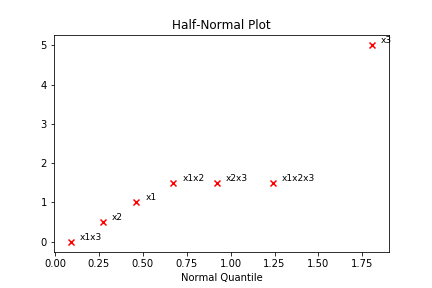
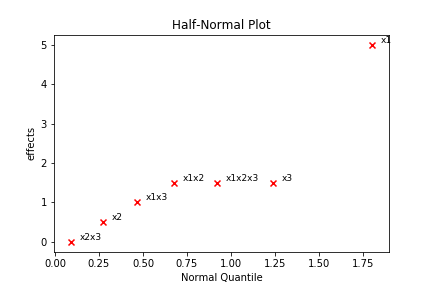
MinorC1

diff --git a/2k_DesignOfExp.py b/2k_DesignOfExp.py
@@ -20,7 +20,9 @@ import statistics
 import math
 
 
-
+print('Current working directory ',os.getcwd())
+os.chdir('C:/Users/a-bibeka/Documents/GitHub/Python-Code-Compilation')
+print('Current working directory ',os.getcwd())
 
 def HalfPlt_V1(DatTemp,Theta,Var_,PltName):
     len1 =len(DatTemp[Var_])
@@ -162,30 +164,9 @@ DatIndex= pd.DataFrame({'Var':['x1','x2','x3','x1x2','x1x3','x2x3','x1x2x3'],
                         'Effect':FactorialEff.tolist()[0]})
 DatIndex=DatIndex.sort_values(by=['Effect'])
 Var=DatIndex['Var']
-
-SrtEff=np.sort(FactorialEff).tolist()[0]
-
-i=np.linspace(1,7,7).tolist()
-d={'i':i,'SrtEff':SrtEff}
+d={'FaEff':FactorialEff.tolist()[0],'Var':Var}
 dat2=pd.DataFrame(d)
-
-dat2['absEff']=dat2['SrtEff'].apply(abs)
-
-dat2['NorQuant']=dat2['i'].apply(lambda x :norm.ppf(0.5+0.5*(x-0.5)/7))
-
-print('Current working directory ',os.getcwd())
-os.chdir('C:/Users/a-bibeka/Documents/GitHub/Python-Code-Compilation')
-print('Current working directory ',os.getcwd())
-for i,type in enumerate(Var):
-    x = dat2['NorQuant'][i]
-    y = dat2['absEff'][i]
-    plt.scatter(x, y, marker='x', color='red')
-    plt.text(x+0.05, y+0.05, type, fontsize=9)
-    
-plt.title("Half-Normal Plot")
-plt.xlabel("Normal Quantile")
-plt.savefig('HalfPlot.png')
-
+HalfPlt_V1(dat2,'FaEff','Var','HalfPlot.png')
 
 # Lenth's Method for  testing signficance for experiments without
 # variance estimate
@@ -222,6 +203,7 @@ RoughDat1.loc[:,'AB']=RoughDat1['A']*RoughDat1['B']
 RoughDat1.loc[:,'AC']=RoughDat1['A']*RoughDat1['C']
 RoughDat1.loc[:,'BC']=RoughDat1['B']*RoughDat1['C']
 RoughDat1.loc[:,'ABC']=RoughDat1['A']*RoughDat1['B']*RoughDat1['C']
+RoughDat1.to_csv("RoughnessDat.csv")
 X2= RoughDat1.loc[:,['A','B','C','AB','AC','BC','ABC']]
 Ybar=pd.DataFrame(RoughDat1['YBar'])
 LnSBar=pd.DataFrame(RoughDat1['lnsBar'])
@@ -234,7 +216,7 @@ ModSum=yBarMod.fit(X2,Ybar)
 FactEff=np.round(2*ModSum.coef_[0],2).tolist()
 Var1=['A','B','C','AB','AC','BC','ABC']
 Dat2=pd.DataFrame({'FactEff':FactEff,'Var1':Var1})
-
+Dat2.to_excel("RoughlocEff.xls")
     
 HalfPlt_V1(Dat2,'FactEff','Var1','HalfPlot1.png')
 '''
@@ -251,4 +233,6 @@ ModSum2.coef_
 FactEff2=np.round(2*ModSum2.coef_[0],2).tolist()
 Var1=['A','B','C','AB','AC','BC','ABC']
 Dat3=pd.DataFrame({'FactEff':FactEff2,'Var1':Var1})
+Dat3.to_excel("RoughDisperEff.xls")
+
 HalfPlt_V1(Dat3,'FactEff','Var1','HalfPlot2.png')
